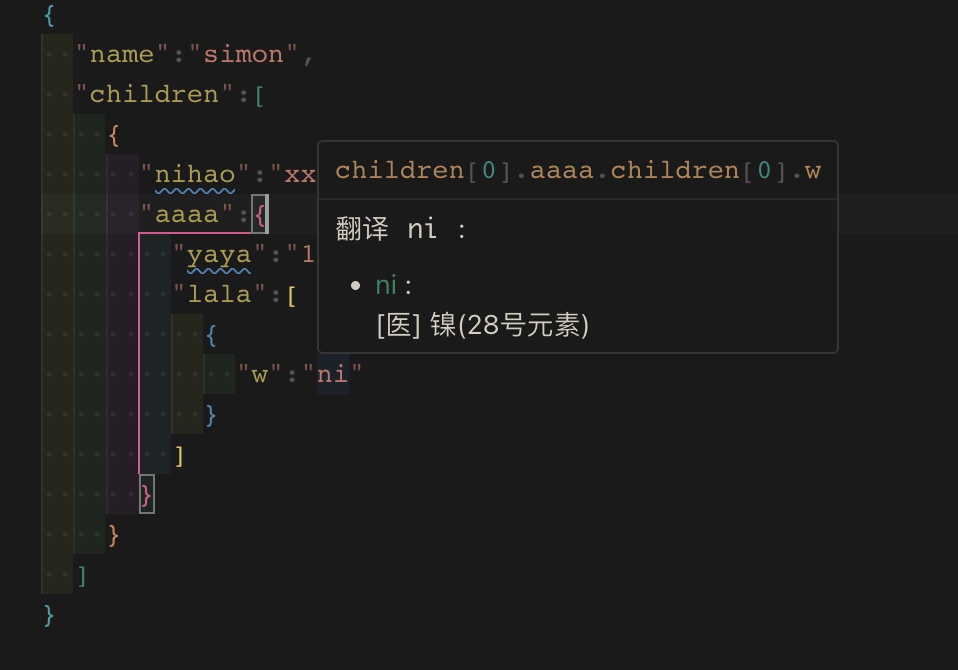
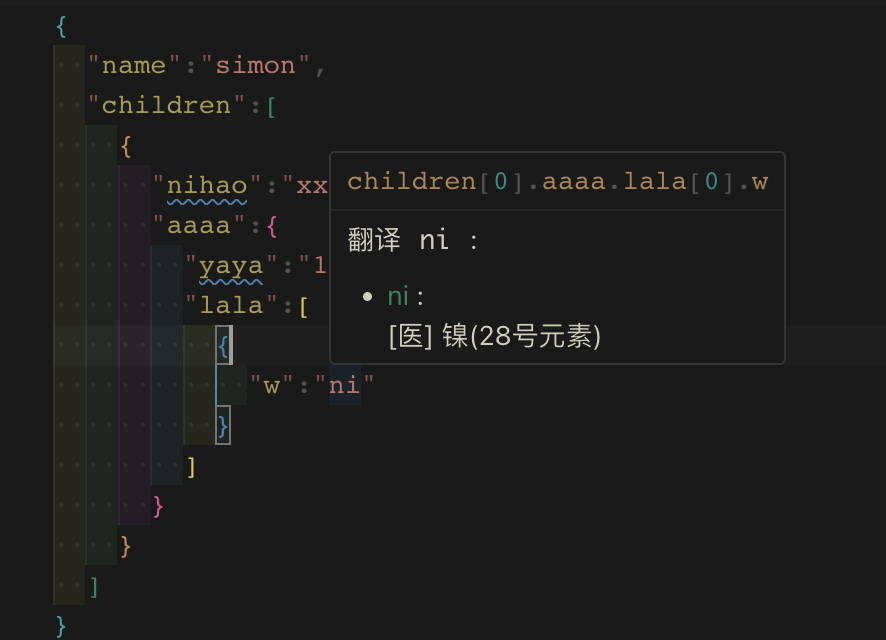
chore: add kv

diff --git a/src/utils.ts b/src/utils.ts
@@ -17,12 +17,11 @@ export function getStack(content: string, position: vscode.Position) {
   const stack: [string, string][] = findTarget(children, position)
   return stack.reduce((result: string, [name, val], i) => {
     if (val === 'Array')
-      result += 'children['
+      result += `${name}[`
     else if (val === 'Object')
       result += `${name}${result.slice(-1)[0] === '[' ? ']' : ''}${i !== stack.length - 1 ? '.' : ''}`
     else
       result += name
-
     return result
   }, '')
 }

diff --git a/README.md b/README.md
@@ -1,9 +1,12 @@
 <p align="center">
-<img height="200" src="./assets/kv.png" alt="to unocss">
+<img height="200" src="./assets/kv.png" alt="vscode json structure">
 </p>
 <p align="center"> English | <a href="./README_zh.md">简体中文</a></p>
 
 :WIP>将JSON数据给出一个层级结构
+
+![demo](/assets/demo.jpg)
+
 
 ## :coffee:
 

diff --git a/README_zh.md b/README_zh.md
@@ -1,9 +1,11 @@
 <p align="center">
-<img height="200" src="./assets/kv.png" alt="to unocss">
+<img height="200" src="./assets/kv.png" alt="vscode json structure">
 </p>
 <p align="center"> <a href="./README.md">English</a> | 简体中文</p>
 
 :WIP>将JSON数据给出一个层级结构
+
+![demo](/assets/demo.jpg)
 
 ## :coffee:
 
